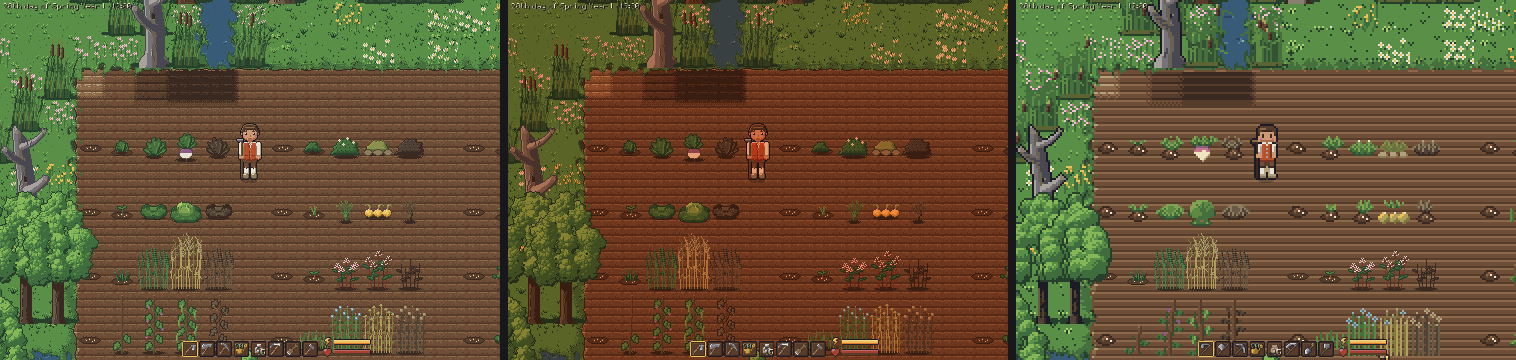
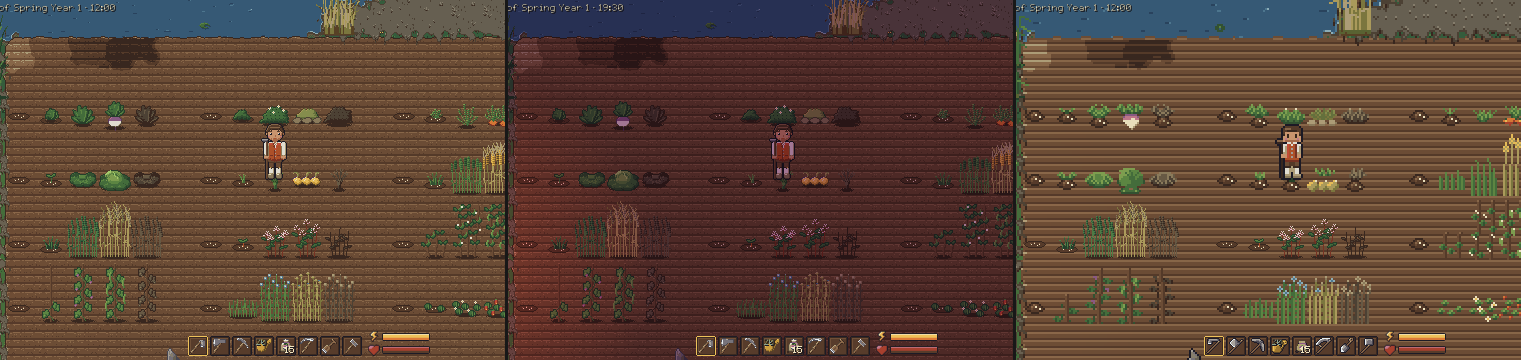
README: soil pictures re-taken for the wet patches, the close-up renamed soil-patch.png
Task 175: the soil from dry to soaked (noon, evening, classic) and the close-up
of its wet edges show the patches that replaced the fade of task 167.

diff --git a/README.md b/README.md
@@ -179,7 +179,7 @@ between and rounds off at its corners, so a few watered tiles never read as a sq
 as wet as each other show no edge, and the field's rim against the turf stays as it is. The close-up shows
 the row from dry to soaked over fresh soil, four times enlarged, in the 32 px and the classic art.
 
-![Tilled soil from dry to soaked, each tile's brown fading out into the drier soil beside it, four times enlarged, in the 32 px and the classic art](docs/screenshots/soil-fade.png)
+![Tilled soil from dry to soaked, the wetter soil in patches whose edges wander across the tiles, four times enlarged, in the 32 px and the classic art](docs/screenshots/soil-patch.png)
 
 Tilled soil that nobody tends goes back over the days: with nothing on it, after 5 days a few
 weeds and tufts of grass come up, and after 10 it is grass again, with the look its place had (the
